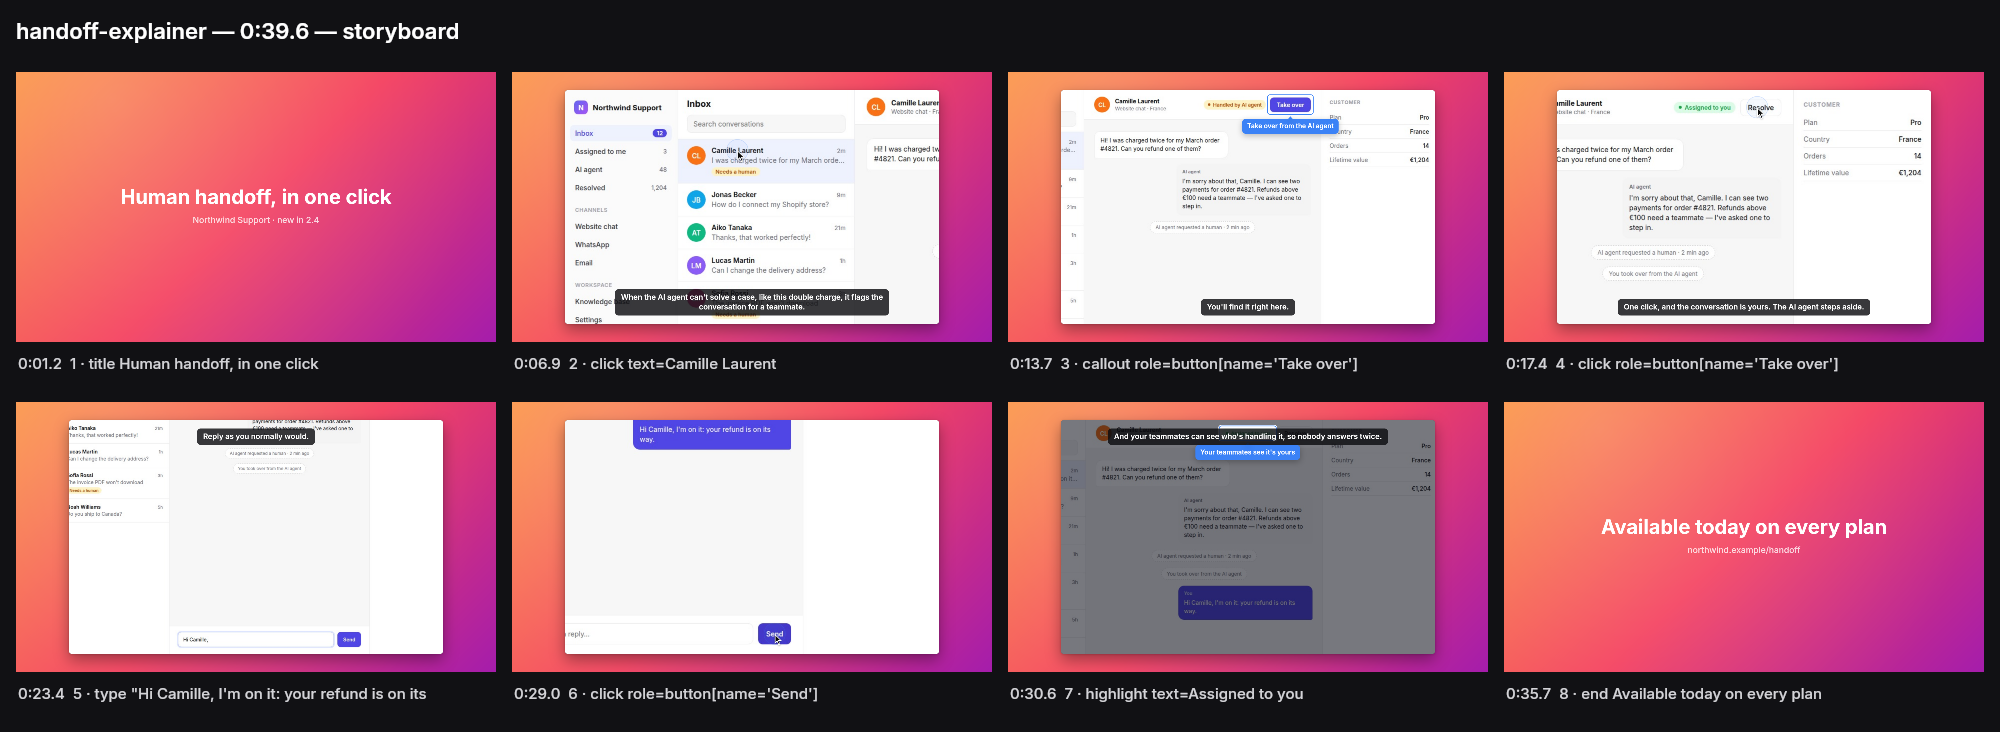
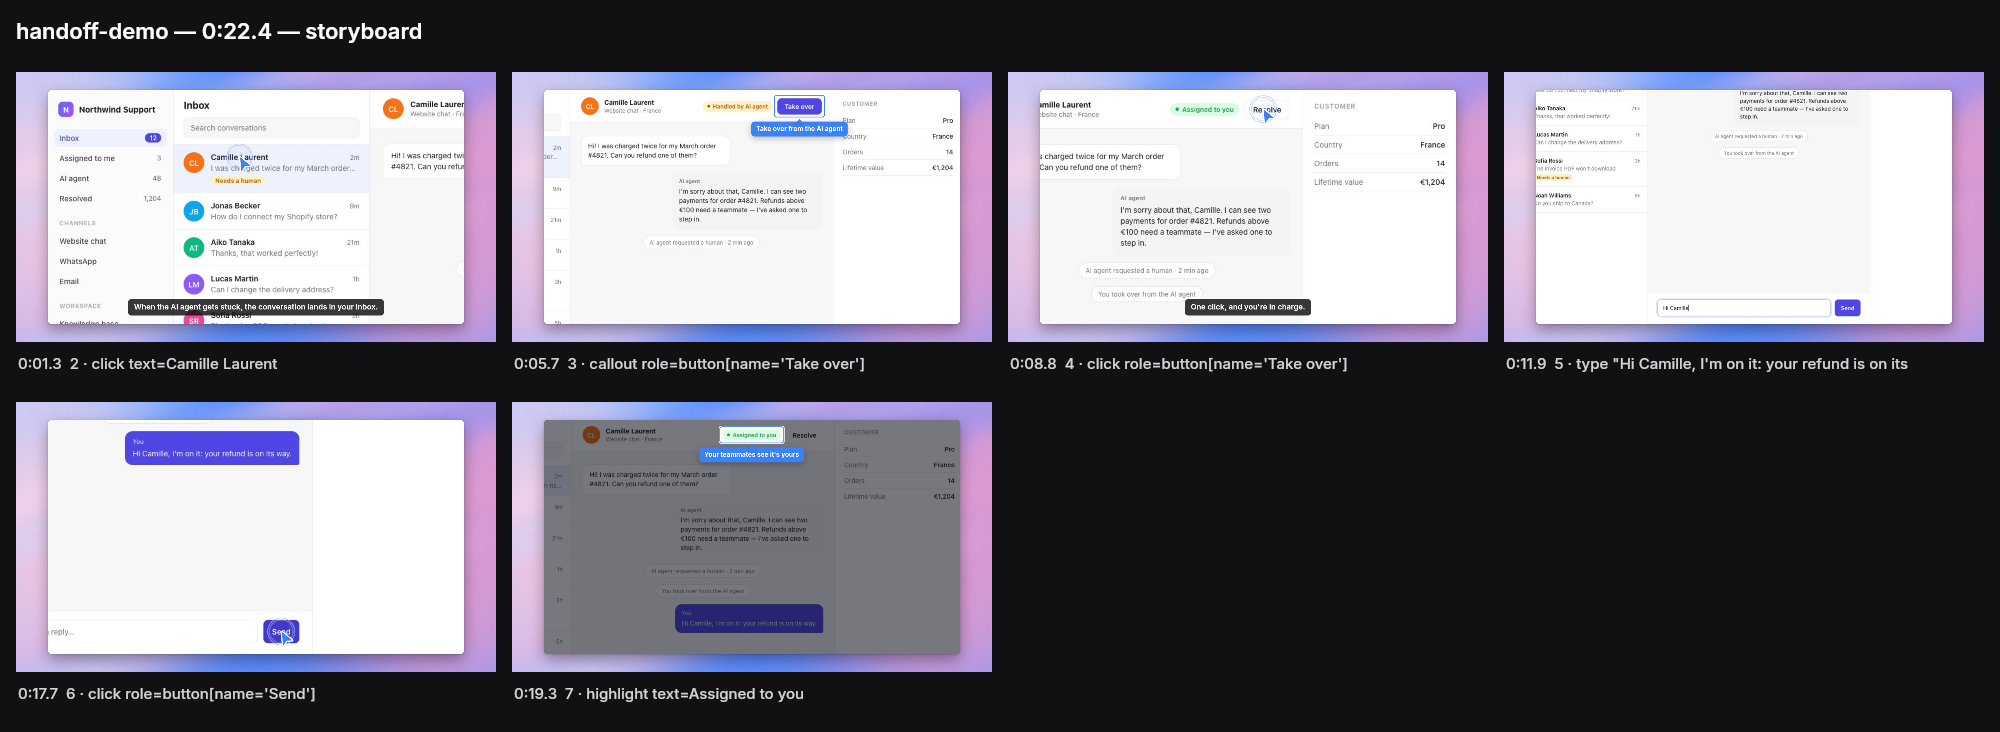
Rounded accent arrow cursor and double-ripple click by default; new README storyboard
- style.cursor: arrow (default; a rounded arrow in the accent color with a
  white edge, about 44 px tall at 1080p), macos (the previous one), dot, none.
- style.click: ripple (default; a soft disc then two rings), rays, confetti,
  sparkle, none; each with a white edge so it reads on a button of the same
  color. Clicks last 0.7 s; the cursor sinks to 82 %, bounces to 106 %.
- The style editor picks the cursor and the click effect.
- docs/handoff-storyboard.png re-recorded with dawn and no intro/outro cards.

diff --git a/src/render/compose.ts b/src/render/compose.ts
@@ -1,4 +1,4 @@
-import { createCanvas, type Canvas, type Image, type SKRSContext2D } from "@napi-rs/canvas";
+import { createCanvas, Path2D, type Canvas, type Image, type SKRSContext2D } from "@napi-rs/canvas";
 import type { Annotation, Camera, Caption } from "../direct/plan.js";
 import type { Box, Point } from "../take.js";
 import { FONT, paintBackground, roundRect, type ResolvedStyle } from "./style.js";
@@ -195,26 +195,13 @@ export function drawCapture(
     if (a.text) drawBubble(ctx, layout, style, a.text, b, inU, outU);
   }
 
-  // Click ripples.
-  for (const r of st.ripples) {
-    const q = toOut(r.p);
-    const rad = (8 + 30 * easeOut(r.u)) * k * (0.8 + 0.2 * z);
-    ctx.save();
-    ctx.globalAlpha = 0.55 * (1 - r.u);
-    ctx.beginPath();
-    ctx.arc(q.x, q.y, rad, 0, Math.PI * 2);
-    ctx.fillStyle = hexA(style.accent, 0.25);
-    ctx.fill();
-    ctx.lineWidth = 2.5 * k;
-    ctx.strokeStyle = style.accent;
-    ctx.stroke();
-    ctx.restore();
-  }
+  // Click effects.
+  for (const r of st.ripples) drawClick(ctx, style.click, toOut(r.p), r.u, style.accent, k * (0.8 + 0.2 * z));
 
   if (st.cursor && st.cursor.alpha > 0.01 && style.cursor !== "none") {
     const q = toOut(st.cursor.p);
     const size = k * style.cursorSize * (1 + 0.4 * (z - 1)) * st.cursor.press;
-    drawCursor(ctx, style.cursor, q, size, st.cursor.alpha);
+    drawCursor(ctx, style.cursor, q, size, st.cursor.alpha, style.accent);
   }
 
   if (st.caption) {
@@ -352,10 +339,32 @@ export function drawCard(
 }
 
 /** macOS-style arrow, or a soft dot. `size` is 1 at 1080p. */
-export function drawCursor(ctx: SKRSContext2D, kind: "macos" | "dot", p: Point, size: number, alpha: number) {
+/** The rounded arrow: tip at (1.5, 0.6), about 20 units tall. */
+const ARROW = new Path2D("M1.5 1.2C1.5.4 2.4 0 3 .5L16.6 11.6C17.3 12.2 16.9 13.3 16 13.3L9.9 13.4C9.5 13.4 9.1 13.6 8.9 13.9L5 19.7C4.4 20.5 3.1 20.1 3.1 19.1Z");
+const STAR = new Path2D("M0-11C.9-3.4 3.4-.9 11 0 3.4.9.9 3.4 0 11-.9 3.4-3.4.9-11 0-3.4-.9-.9-3.4 0-11Z");
+
+export function drawCursor(ctx: SKRSContext2D, kind: "arrow" | "macos" | "dot", p: Point, size: number, alpha: number, accent = "#3b82f6") {
   ctx.save();
   ctx.globalAlpha = alpha;
   ctx.translate(p.x, p.y);
+  if (kind === "arrow") {
+    // 44 px tall at size 1 in a 1080p video; the tip sits on the point.
+    const s = 2.19 * size;
+    ctx.scale(s, s);
+    ctx.translate(-1.5, -0.6);
+    ctx.shadowColor = "rgba(0,0,0,0.35)";
+    ctx.shadowBlur = 4;
+    ctx.shadowOffsetY = 1.4;
+    ctx.fillStyle = accent;
+    ctx.fill(ARROW);
+    ctx.shadowColor = "transparent";
+    ctx.lineJoin = "round";
+    ctx.lineWidth = 1.6;
+    ctx.strokeStyle = "#ffffff";
+    ctx.stroke(ARROW);
+    ctx.restore();
+    return;
+  }
   if (kind === "dot") {
     ctx.beginPath();
     ctx.arc(0, 0, 13 * size, 0, Math.PI * 2);
@@ -411,6 +420,100 @@ export function wrap(ctx: SKRSContext2D, text: string, maxW: number): string[] {
   }
   if (line) lines.push(line);
   return lines.length ? lines : [""];
+}
+
+/**
+ * A click's effect, `u` from 0 to 1 over its life, in the accent color with a white edge so it
+ * reads on any background, even a button of the same color. `k` scales it with the video and zoom.
+ */
+export function drawClick(ctx: SKRSContext2D, kind: ResolvedStyle["click"], q: Point, u: number, accent: string, k: number) {
+  if (kind === "none") return;
+  ctx.save();
+  ctx.translate(q.x, q.y);
+  const phase = (start: number, len: number) => clamp01((u - start) / len);
+  if (kind === "ripple") {
+    // A soft disc, then two rings, each a little later.
+    const ring = (start: number, r0: number, fill: boolean, width: number) => {
+      const t = phase(start, 0.62);
+      if (t <= 0 || t >= 1) return;
+      const r = r0 * k * (0.3 + 2.3 * easeOut(t));
+      ctx.globalAlpha = 0.8 * (1 - t);
+      ctx.beginPath();
+      ctx.arc(0, 0, r, 0, Math.PI * 2);
+      if (fill) {
+        ctx.fillStyle = hexA(accent, 0.22);
+        ctx.fill();
+        return;
+      }
+      ctx.lineWidth = (width + 2) * k;
+      ctx.strokeStyle = "rgba(255,255,255,0.9)";
+      ctx.stroke();
+      ctx.lineWidth = width * k;
+      ctx.strokeStyle = accent;
+      ctx.stroke();
+    };
+    ring(0, 16, true, 0);
+    ring(0.11, 16, false, 2.2);
+    ring(0.26, 22, false, 1.6);
+  } else if (kind === "rays") {
+    const t = phase(0, 0.7);
+    if (t < 1) {
+      const e = easeOut(t);
+      ctx.globalAlpha = 1 - t;
+      ctx.lineCap = "round";
+      for (const pass of [0, 1]) {
+        ctx.lineWidth = (pass ? 3.4 : 6.4) * k;
+        ctx.strokeStyle = pass ? accent : "#ffffff";
+        for (let i = 0; i < 6; i++) {
+          const a = -Math.PI / 2 + (i * Math.PI) / 3;
+          const r0 = (14 + 14 * e) * k;
+          const r1 = r0 + 9 * k * (1 - 0.5 * t);
+          ctx.beginPath();
+          ctx.moveTo(Math.cos(a) * r0, Math.sin(a) * r0);
+          ctx.lineTo(Math.cos(a) * r1, Math.sin(a) * r1);
+          ctx.stroke();
+        }
+      }
+    }
+  } else if (kind === "confetti") {
+    const t = phase(0, 0.8);
+    if (t < 1) {
+      const e = easeOut(t);
+      const shades = [accent, hexA(accent, 0.75), accent, hexA(accent, 0.55), accent, hexA(accent, 0.75), accent];
+      const dirs: Array<[number, number, number]> = [[0, -56, 6.5], [42, -37, 5.3], [56, 4, 6.1], [37, 42, 4.9], [-42, -37, 5.7], [-56, 4, 4.9], [-36, 42, 4.5]];
+      ctx.globalAlpha = t < 0.6 ? 1 : 1 - (t - 0.6) / 0.4;
+      dirs.forEach(([dx, dy, r], i) => {
+        ctx.beginPath();
+        ctx.arc(dx * k * (0.3 + 0.7 * e), dy * k * (0.3 + 0.7 * e), r * k * (1 - 0.55 * t), 0, Math.PI * 2);
+        ctx.fillStyle = "#ffffff";
+        ctx.fill();
+        ctx.beginPath();
+        ctx.arc(dx * k * (0.3 + 0.7 * e), dy * k * (0.3 + 0.7 * e), Math.max(0, r * k * (1 - 0.55 * t) - 1.5 * k), 0, Math.PI * 2);
+        ctx.fillStyle = shades[i];
+        ctx.fill();
+      });
+    }
+  } else if (kind === "sparkle") {
+    // Three four-point stars that grow, turn and vanish, one after another.
+    const stars: Array<[number, number, number]> = [[36, -36, 0], [-33, -25, 0.08], [33, 33, 0.16]];
+    for (const [x, y, start] of stars) {
+      const t = phase(start, 0.6);
+      if (t <= 0 || t >= 1) continue;
+      const sc = (t < 0.3 ? easeOut(t / 0.3) * 1.15 : 1.15 - 0.25 * ((t - 0.3) / 0.4)) * (t > 0.7 ? 1 - (t - 0.7) / 0.3 : 1);
+      ctx.save();
+      ctx.translate(x * k, y * k);
+      ctx.rotate((Math.PI / 2) * t);
+      ctx.scale(sc * 1.4 * k, sc * 1.4 * k);
+      ctx.fillStyle = accent;
+      ctx.fill(STAR);
+      ctx.lineJoin = "round";
+      ctx.lineWidth = 1.2;
+      ctx.strokeStyle = "#ffffff";
+      ctx.stroke(STAR);
+      ctx.restore();
+    }
+  }
+  ctx.restore();
 }
 
 export function easeOut(t: number) {

diff --git a/test/style.test.ts b/test/style.test.ts
@@ -44,17 +44,17 @@ describe("style", () => {
   });
 
   it("saves to the scenario, keeping its other settings", () => {
-    const { file } = project(undefined, { cursor: "dot", padding: 10 });
+    const { file } = project(undefined, { accent: "#ff0066", padding: 10 });
     saveStyle(file, "scenario", { background: "#0f172a", padding: 96, radius: 20, shadow: false });
-    expect(read(file).style).toEqual({ cursor: "dot", padding: 96, background: "#0f172a", radius: 20, shadow: false });
+    expect(read(file).style).toEqual({ accent: "#ff0066", padding: 96, background: "#0f172a", radius: 20, shadow: false });
   });
 
   it("saves to the project and removes the scenario's overrides of those settings", () => {
-    const { root, file } = project(undefined, { cursor: "dot", padding: 10, radius: 2 });
+    const { root, file } = project(undefined, { accent: "#ff0066", padding: 10, radius: 2 });
     const saved = saveStyle(file, "project", { background: { gradient: ["#0ea5e9", "#6366f1"] }, padding: 96, radius: 20, shadow: true });
     expect(saved).toBe(path.join(path.dirname(file), "screenplay.config.json"));
     expect(read(saved).style).toEqual({ background: { gradient: ["#0ea5e9", "#6366f1"] }, padding: 96, radius: 20, shadow: true });
-    expect(read(file).style).toEqual({ cursor: "dot" });
+    expect(read(file).style).toEqual({ accent: "#ff0066" });
     // An existing config higher up is the one updated.
     const p2 = project({ style: { accent: "#ff0000" } });
     saveStyle(p2.file, "project", { padding: 50 } as never);
@@ -77,7 +77,7 @@ describe("style", () => {
   });
 
   it("reports the styles as written", () => {
-    const { file } = project({ style: { padding: 120 } }, { radius: 3, cursor: "dot" });
+    const { file } = project({ style: { padding: 120 } }, { radius: 3, accent: "#ff0066" });
     const s = state(file);
     expect(s.projectStyle).toEqual({ padding: 120 });
     expect(s.scenarioStyle).toEqual({ radius: 3 });
@@ -153,5 +153,32 @@ describe("background presets", () => {
     const { noiseValues } = await import("../src/render/presets.js");
     expect(Array.from(noiseValues().slice(0, 4))).toEqual(Array.from(noiseValues().slice(0, 4)));
     expect(new Set(noiseValues()).size).toBeGreaterThan(200);
+  });
+});
+
+describe("cursor", () => {
+  it("defaults to the rounded arrow with a ripple, and keeps the classic one", async () => {
+    const d = await resolveStyle(undefined, ".");
+    expect([d.cursor, d.click]).toEqual(["arrow", "ripple"]);
+    const old = await resolveStyle({ cursor: "macos", click: "rays" }, ".");
+    expect([old.cursor, old.click]).toEqual(["macos", "rays"]);
+    expect(() => parseScenario({ url: "x", style: { click: "boom" }, steps: [{ pause: 1 }] })).toThrow();
+  });
+
+  it("sinks to 82 % on a click, bounces to 106 %, then settles", async () => {
+    const { pressAt } = await import("../src/render/render.js");
+    expect(pressAt(-0.2)).toBe(1);
+    expect(pressAt(0.04)).toBeCloseTo(0.82, 2);
+    expect(pressAt(0.18)).toBeCloseTo(1.06, 2);
+    expect(pressAt(0.4)).toBe(1);
+    for (let d = -0.1; d < 0.45; d += 0.01) expect(pressAt(d)).toBeGreaterThan(0.8);
+  });
+
+  it("draws every click effect without error", async () => {
+    const { createCanvas } = await import("@napi-rs/canvas");
+    const { drawClick, drawCursor } = await import("../src/render/compose.js");
+    const ctx = createCanvas(200, 200).getContext("2d");
+    for (const kind of ["ripple", "rays", "confetti", "sparkle", "none"] as const) for (const u of [0, 0.3, 0.99]) drawClick(ctx, kind, { x: 100, y: 100 }, u, "#3b82f6", 1);
+    for (const kind of ["arrow", "macos", "dot"] as const) drawCursor(ctx, kind, { x: 100, y: 100 }, 1, 1, "#3b82f6");
   });
 });

diff --git a/assets/editor/index.html b/assets/editor/index.html
@@ -248,6 +248,14 @@ kbd { font: 11px ui-monospace, Menlo, monospace; color: var(--faint); }
         <div class="row"><span>Shadow</span><button class="switch" id="shadow" role="switch" aria-label="Shadow"></button></div>
         <div class="row" style="margin-top:16px"><span>Intro &amp; outro cards</span><button class="switch" id="cards" role="switch" aria-label="Intro and outro cards"></button></div>
       </div>
+
+      <div class="section">
+        <p class="label">Cursor</p>
+        <div class="seg" id="cursorKind"><span class="pill"></span><button data-k="arrow">Arrow</button><button data-k="macos">macOS</button><button data-k="dot">Dot</button></div>
+        <p class="label" style="margin-top:16px">Click</p>
+        <div class="seg" id="clickKind"><span class="pill"></span><button data-k="ripple">Ripple</button><button data-k="rays">Rays</button><button data-k="confetti">Confetti</button><button data-k="sparkle">Sparkle</button></div>
+        <p class="note on" style="display:block">Shown in the video: Render to see them.</p>
+      </div>
     </div>
 
     <div class="foot">
@@ -284,7 +292,7 @@ async function load() {
   S = await (await api("/api/state")).json();
   $("name").textContent = S.name;
   const eff = { ...S.defaults, ...S.projectStyle, ...S.scenarioStyle };
-  style = { background: eff.background, padding: eff.padding, radius: eff.radius, shadow: eff.shadow, cards: eff.cards };
+  style = { background: eff.background, padding: eff.padding, radius: eff.radius, shadow: eff.shadow, cards: eff.cards, cursor: eff.cursor, click: eff.click };
   if (kindOf(style.background) === "image") imageRef = { path: style.background, from: S.scenarioStyle.background !== undefined ? "scenario" : "project" };
   saved = JSON.stringify(style);
   // A video that already has its own look keeps it; otherwise the look is for the whole project.
@@ -462,6 +470,8 @@ $("rad").oninput = (e) => { live(); style.radius = +e.target.value; change(); };
 $("shadow").onclick = () => { style.shadow = !style.shadow; change(); };
 // Cards are not in the frame preview: the rendered video shows them.
 $("cards").onclick = () => { style.cards = !style.cards; change(); };
+$("cursorKind").querySelectorAll("button").forEach((b) => (b.onclick = () => { style.cursor = b.dataset.k; change(); }));
+$("clickKind").querySelectorAll("button").forEach((b) => (b.onclick = () => { style.click = b.dataset.k; change(); }));
 $("reset").onclick = () => {
   style = { ...S.defaults };
   setKind(kindOf(style.background), true);
@@ -534,6 +544,8 @@ function sync() {
   }
   $("shadow").setAttribute("aria-checked", String(style.shadow));
   $("cards").setAttribute("aria-checked", String(style.cards));
+  setSeg($("cursorKind"), style.cursor);
+  setSeg($("clickKind"), style.click);
   $("reset").disabled = JSON.stringify(style) === JSON.stringify({ ...S.defaults });
   // The recording keeps its shape: when it is not the video's, the background shows on two sides even with no padding.
   const cap = S.capture || { width: 1440, height: 900 }, r = cap.width / cap.height, R = S.output.width / S.output.height;

diff --git a/src/scenario/schema.ts b/src/scenario/schema.ts
@@ -189,8 +189,15 @@ export const Style = z
     padding: z.number().min(0).max(400).optional().describe("Space around the recording, in output pixels (default 72)."),
     radius: z.number().min(0).max(80).optional().describe("Corner radius of the recording (default 14)."),
     shadow: z.boolean().optional().describe("Drop shadow under the recording (default true)."),
-    cursor: z.enum(["macos", "dot", "none"]).optional().describe("Cursor drawn in the video (default macos)."),
-    cursorSize: z.number().min(0.5).max(3).optional().describe("Cursor scale (default 1)."),
+    cursor: z
+      .enum(["arrow", "macos", "dot", "none"])
+      .optional()
+      .describe("Cursor drawn in the video: arrow (default, a rounded arrow in the accent color), macos (the classic black arrow), dot or none."),
+    cursorSize: z.number().min(0.5).max(3).optional().describe("Cursor scale (default 1: the arrow is about 44 px tall in a 1080p video)."),
+    click: z
+      .enum(["ripple", "rays", "confetti", "sparkle", "none"])
+      .optional()
+      .describe("What a click shows, in the accent color: ripple (default, a soft disc and two rings), rays, confetti, sparkle or none."),
     maxZoom: z.number().min(1).max(4).optional().describe("Highest automatic zoom (default 1.9). Automatic zooms also stop where the capture runs out of pixels, so a small app window that already fills the video is not zoomed; a number in a step's `zoom` still forces it."),
     autoZoom: z.boolean().optional().describe("Zoom automatically on clicks and typing (default true)."),
     captions: z.boolean().optional().describe("Show the `say` text as captions (default true)."),

diff --git a/src/render/render.ts b/src/render/render.ts
@@ -29,6 +29,19 @@ export interface RenderResult {
 }
 
 const FADE = 0.4;
+/** How long a click's effect lasts, in seconds. */
+const CLICK_EFFECT_S = 0.7;
+
+/**
+ * The cursor's size around a click, `d` seconds after it: it sinks to 82 % as the click
+ * happens, bounces to 106 % on release, then settles.
+ */
+export function pressAt(d: number): number {
+  if (d < -0.08 || d >= 0.4) return 1;
+  if (d < 0.04) return 1 - 0.18 * Math.sin((Math.PI / 2) * ((d + 0.08) / 0.12));
+  if (d < 0.18) return 0.82 + 0.24 * Math.sin((Math.PI / 2) * ((d - 0.04) / 0.14));
+  return 1 + 0.06 * (1 - (d - 0.18) / 0.22);
+}
 /** How far past the capture's own pixels the camera may magnify before the picture turns soft. */
 const MAX_UPSCALE = 1.15;
 
@@ -196,8 +209,8 @@ export async function renderTake(loaded: LoadedScenario, take: Take, opts: Rende
     let press = 1;
     for (const c of plan.clicks) {
       const d = o - c;
-      if (d > -0.08 && d < 0.3) press = Math.min(press, 1 - 0.16 * Math.sin(Math.PI * clamp01((d + 0.08) / 0.38)));
-      if (d >= 0 && d < 0.55) st.ripples.push({ p: cursorAt(plan.movements, take.cursorStart, s), u: d / 0.55 });
+      if (d > -0.08 && d < 0.4) press = pressAt(d);
+      if (d >= 0 && d < CLICK_EFFECT_S) st.ripples.push({ p: cursorAt(plan.movements, take.cursorStart, s), u: d / CLICK_EFFECT_S });
     }
     st.cursor = { p: cursorAt(plan.movements, take.cursorStart, s), alpha: clamp01(alpha), press };
     for (const a of plan.annotations) {

diff --git a/src/editor/server.ts b/src/editor/server.ts
@@ -22,7 +22,7 @@ import { defaultViewport } from "../drivers/web.js";
  */
 
 /** The settings the editor changes; a style's other settings are kept as they are. */
-export const EDITED = ["background", "padding", "radius", "shadow", "cards"] as const;
+export const EDITED = ["background", "padding", "radius", "shadow", "cards", "cursor", "click"] as const;
 const IMAGE_EXT = /\.(png|jpe?g|webp)$/i;
 
 export interface EditorOptions {
@@ -141,7 +141,7 @@ export function state(scenarioFile: string) {
     /** Every preset the page may have to draw, and the ones it offers. */
     presets: Object.fromEntries(Object.entries(ALL_PRESETS).map(([k, p]) => [k, { ...p, colors: presetColors(p) }])),
     offered: Object.keys(GLOW_PRESETS),
-    defaults: { background: DEFAULT_BACKGROUND, padding: 72, radius: 14, shadow: true, cards: false },
+    defaults: { background: DEFAULT_BACKGROUND, padding: 72, radius: 14, shadow: true, cards: false, cursor: "arrow", click: "ripple" },
   };
 }
 

diff --git a/src/render/style.ts b/src/render/style.ts
@@ -19,7 +19,8 @@ export interface ResolvedStyle {
   padding: number;
   radius: number;
   shadow: boolean;
-  cursor: "macos" | "dot" | "none";
+  cursor: "arrow" | "macos" | "dot" | "none";
+  click: "ripple" | "rays" | "confetti" | "sparkle" | "none";
   cursorSize: number;
   maxZoom: number;
   autoZoom: boolean;
@@ -62,7 +63,8 @@ export async function resolveStyle(style: Style | undefined, baseDir: string): P
     padding: s.padding ?? 72,
     radius: s.radius ?? 14,
     shadow: s.shadow ?? true,
-    cursor: s.cursor ?? "macos",
+    cursor: s.cursor ?? "arrow",
+    click: s.click ?? "ripple",
     cursorSize: s.cursorSize ?? 1,
     maxZoom: s.maxZoom ?? 1.9,
     autoZoom: s.autoZoom ?? true,

diff --git a/README.md b/README.md
@@ -64,7 +64,7 @@ Requirements: Node 20+. ffmpeg and the drawing library ship with the package.
 - **Targets** name elements the way people see them: `text=…`, `role=button[name='…']`, `label=…`, `placeholder=…`, `testid=…`, `css=…` (web only), `at=x,y` (desktop apps without accessible elements only).
 - **Actions**: `goto`, `click`, `type`, `press`, `hover`, `scroll`, `select`, `wait`, `pause`.
 - **Direction**: `title` and `end` cards, `callout` (a bubble pointing at an element), `highlight` (spotlight), `zoomTo`, and on any step `say` (caption and voice), `zoom`, `hold`.
-- **Style**: background preset (soft light gradients: `dawn`, `iris`, `citrus`, `apricot`, `coral`, `blaze`, `cloud`, `glacier`, `tide`, `meadow`), your own gradient, a color or an image; padding, corner radius, shadow, cursor style, maximum zoom, browser frame, accent color. See [Style](#style).
+- **Style**: background preset (soft light gradients: `dawn`, `iris`, `citrus`, `apricot`, `coral`, `blaze`, `cloud`, `glacier`, `tide`, `meadow`), your own gradient, a color or an image; padding, corner radius, shadow, the cursor (`arrow` by default, a rounded arrow in the accent color; `macos`, `dot`) and its click effect (`ripple` by default; `rays`, `confetti`, `sparkle`), maximum zoom, browser frame, accent color. See [Style](#style).
 - **Output**: 1920×1080 at 30 fps by default; any size up to 4K, 24 to 60 fps, optional GIF.
 
 The full format is the JSON schema in [`schema/scenario.schema.json`](schema/scenario.schema.json) (`npx agent-screenplay schema`), and the agent guide in [`skills/screenplay/SKILL.md`](skills/screenplay/SKILL.md). Examples are in [`examples/`](examples).

diff --git a/skills/screenplay/SKILL.md b/skills/screenplay/SKILL.md
@@ -94,7 +94,7 @@ On any step: `say` (narration: a caption, and speech when voice is on), `zoom` (
 ### Style, voice, output
 
 ```json
-"style": { "background": "dawn", "padding": 72, "radius": 14, "cursor": "macos", "maxZoom": 1.9, "frame": "browser", "accent": "#3b82f6", "captions": true },
+"style": { "background": "dawn", "padding": 72, "radius": 14, "cursor": "arrow", "click": "ripple", "maxZoom": 1.9, "frame": "browser", "accent": "#3b82f6", "captions": true },
 "voice": { "enabled": true, "language": "fr" },
 "output": { "width": 1920, "height": 1080, "fps": 30, "gif": false }
 ```
